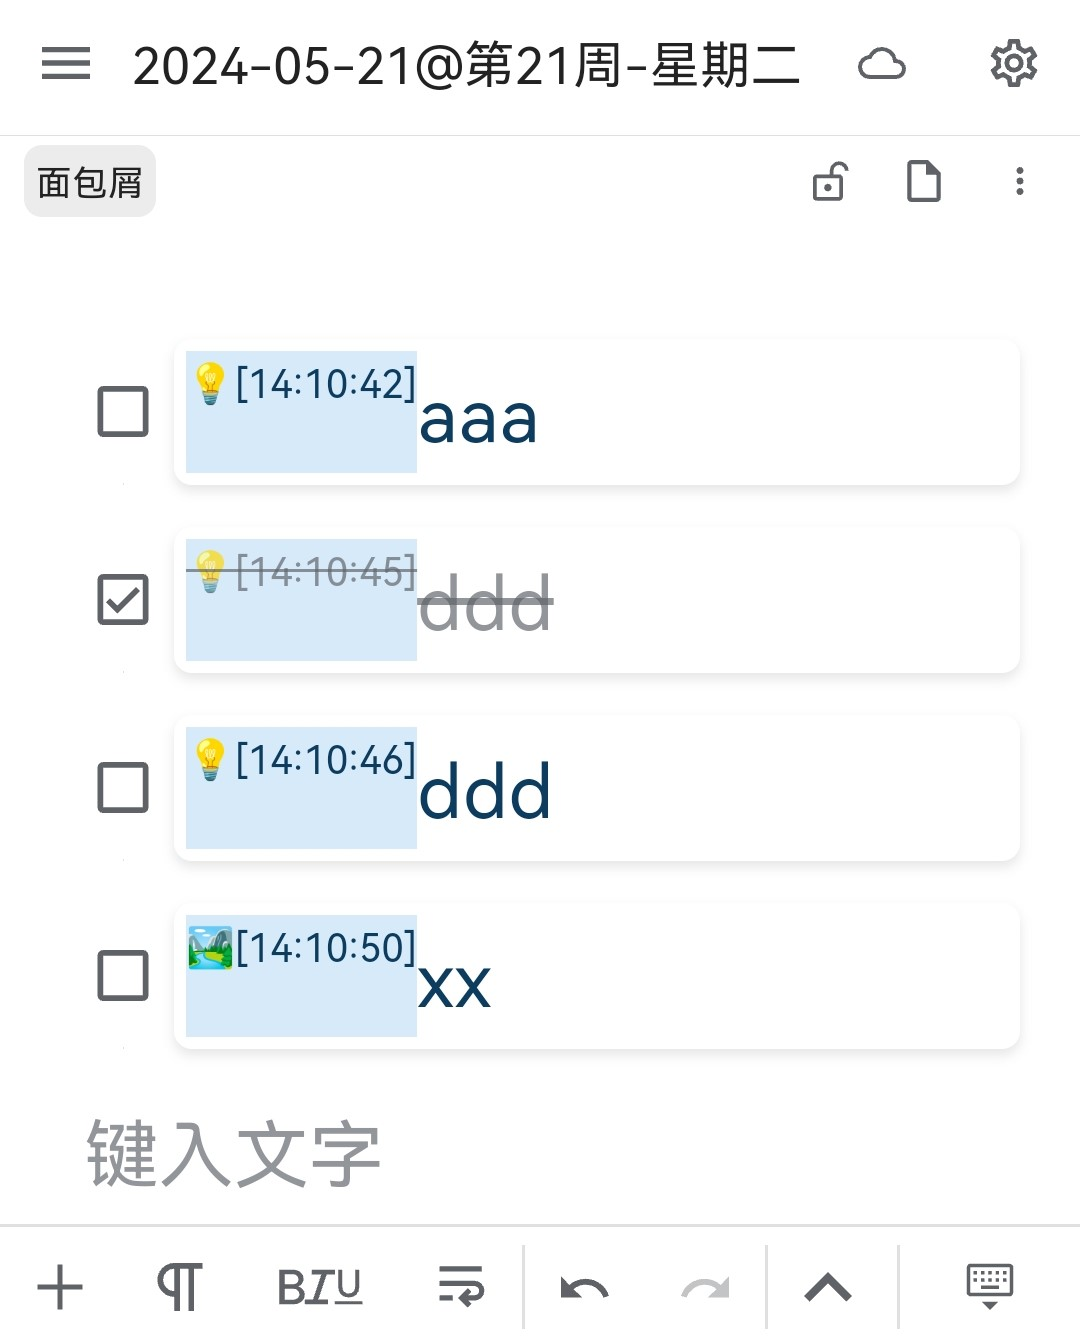
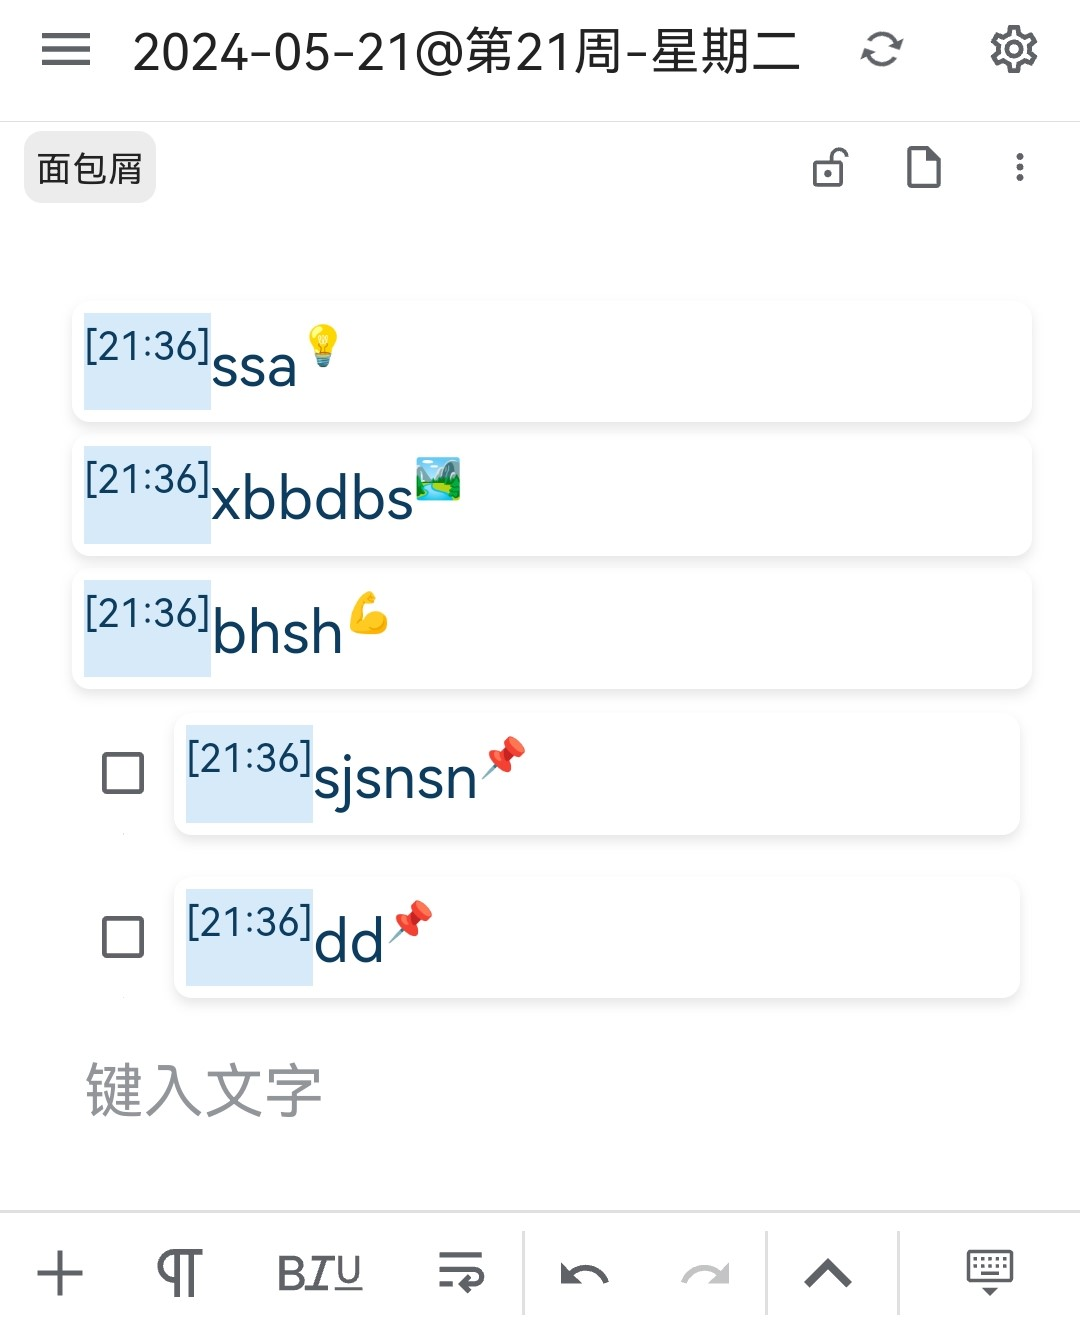
auto

diff --git a/README_zh_CN.md b/README_zh_CN.md
@@ -37,30 +37,38 @@
 
 收集闪念到 daily note，可插入图片，支持`相机`与`图库`。  
 
+**按钮说明**
+
 📸相机拍照  
 🖼从图库从选择  
 📩插入到dailynote  
 🗑清理列表，清理输入框  
 🔄同步数据到云端  
 
+**移动端中使用：**
+
 <img src="assets/idea1.jpg" alt="drawing" width="300"/>  
 
 <img src="assets/idea2.jpg" alt="drawing" width="300"/>  
 
-记录的信息，可能的类别：
+**记录的信息，可能的类别：**
 
-闪念: 💡  
-场所: 🏞  
-健康: 💪  
-社交: 💬  
-生活: 🍴  
-学习: 📚  
-工作: 💼  
+闪念: 💡：段落块
+场所: 🏞：段落块
+健康: 💪：段落块
+社交: 💬：段落块
+生活: 🍴：段落块
+学习: 📚：段落块
+工作: 💼：段落块
+工作: 📌：**任务块**
 
 **可以配合下面介绍的`文本转引用`功能。快速插入引用。**
 
 <img src="assets/idea3.png" alt="drawing" width="300"/>  
 <img src="assets/idea4.png" alt="drawing" width="300"/>  
+
+**桌面端中使用：**
+<img src="assets/idea-desktop.png" alt="drawing" width="300"/>  
 
 ## 杂项
 
